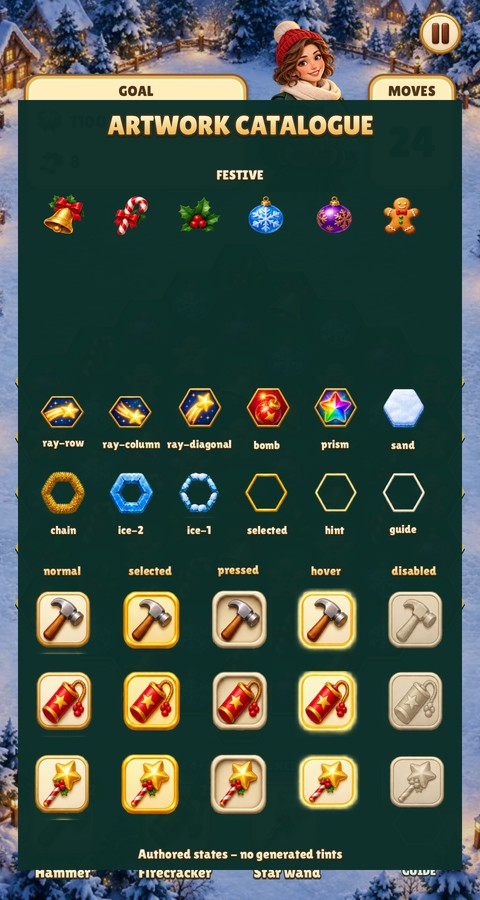
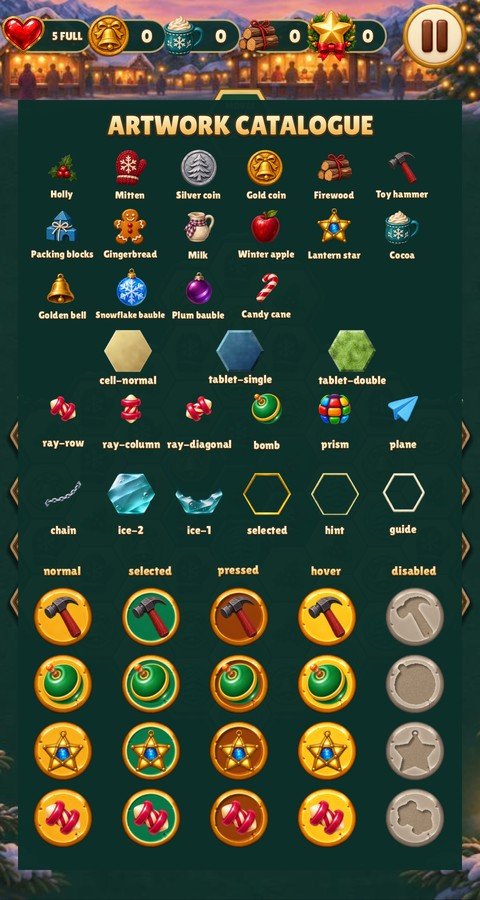
Give Christmas Market four circular boosters

diff --git a/games/relic-rush/tools/prepare_bonus_gems.py b/games/relic-rush/tools/prepare_bonus_gems.py
@@ -150,13 +150,16 @@ def engrave(plate, mask, floor, style):
     return Image.composite(recess, stone, mask)
 
 
-def pack(spec):
-    chips = Image.open(ROOT / spec["source"])
-    base = Image.open(ROOT / spec["button_base"])
+def pack(spec, root=ROOT, icons=None):
+    base = Image.open(root / spec["button_base"])
     cols, rows = len(spec["columns"]), len(spec["rows"])
-    side = spec["cell_size"]
-    assert chips.mode == base.mode == "RGBA" and base.size == (SLOT_SIZE, SLOT_SIZE)
-    assert chips.size == (cols * side, side), "Expected a single strip of standalone gems"
+    if icons is None:
+        side = spec["cell_size"]
+        with Image.open(root / spec["source"]) as chips:
+            assert chips.size == (cols * side, side), "Expected a single strip of standalone gems"
+            icons = [chips.crop((col * side, 0, (col + 1) * side, side)) for col in range(cols)]
+    assert base.mode == "RGBA" and base.size == (SLOT_SIZE, SLOT_SIZE)
+    assert len(icons) == cols and all(icon.mode == "RGBA" for icon in icons)
     base = circular_plate(base, spec["button_outer_radius"])
     base_alpha = base.getchannel("A")
     outside_button = base_alpha.point(lambda a: 255 if a < 128 else 0)
@@ -165,8 +168,7 @@ def pack(spec):
     disabled_style = spec["button_states"]["disabled"]
     floor = cutout_floor(plates["disabled"], disabled_style["cutout"])
     atlas = Image.new("RGBA", (SLOT_SIZE * cols, SLOT_SIZE * rows))
-    for x in range(cols):
-        source = chips.crop((x * side, 0, (x + 1) * side, side))
+    for x, source in enumerate(icons):
         # Preserve the board glyph's existing visible bounds and soft alpha.
         l, t, r, b = source.getchannel("A").point(lambda a: 255 if a >= 128 else 0).getbbox()
         source = source.crop((l - 2, t - 2, r + 2, b + 2))

diff --git a/games/christmas-market/tools/prepare_bonus_buttons.py b/games/christmas-market/tools/prepare_bonus_buttons.py
@@ -1,0 +1,43 @@
+#!/usr/bin/env python3
+"""Generate Christmas Market's circular boosters with the shared painted-button recipe."""
+import argparse
+import json
+from pathlib import Path
+import sys
+
+from PIL import Image
+
+ROOT = Path(__file__).resolve().parents[1]
+RELIC = ROOT.parent / "relic-rush"
+sys.path.insert(0, str(RELIC / "tools"))
+from prepare_bonus_gems import pack
+
+
+def main():
+    parser = argparse.ArgumentParser(description=__doc__)
+    parser.add_argument("--check", action="store_true")
+    args = parser.parse_args()
+    spec = json.loads((ROOT / "art/manifest.json").read_text())["bonus_buttons"]
+    recipe = json.loads((RELIC / "art/board-states/manifest.json").read_text())["bonus_gems"]
+    frames = json.loads((ROOT / "art/match3-atlas.json").read_text())["frames"]
+    icons = []
+    with Image.open(ROOT / "data/market-goods.png") as goods, Image.open(ROOT / "data/match3.png") as specials:
+        for key in spec["columns"]:
+            source = spec["icons"][key]
+            if "good" in source:
+                kind = source["good"]
+                image, x, y, w, h = goods, kind % 4 * 128, kind // 4 * 128, 128, 128
+            else:
+                image = specials
+                x, y, w, h = frames[source["special"]]
+            icons.append(image.crop((x, y, x + w, y + h)))
+    path = ROOT / spec["runtime"]
+    data = pack({**recipe, "columns": spec["columns"]}, root=RELIC, icons=icons)
+    if args.check:
+        assert path.read_bytes() == data, f"Run {spec['generator']}"
+    else:
+        path.write_bytes(data)
+
+
+if __name__ == "__main__":
+    main()

diff --git a/games/christmas-market/tools/check_assets.py b/games/christmas-market/tools/check_assets.py
@@ -68,6 +68,10 @@ def main():
     assert (ROOT/goods['prompt']).is_file() and (ROOT/goods['review']).is_file()
     assert png(ROOT/goods['runtime']) == ((512, 512), 6) and len(set(goods['frames'])) == 16
     subprocess.run([sys.executable, str(ROOT/goods['registration']), '--check'], check=True)
+    buttons = manifest['bonus_buttons']
+    assert len(set(buttons['columns'])) == 4 and set(buttons['columns']) == set(buttons['icons'])
+    assert png(ROOT/buttons['runtime']) == ((512, 768), 6)
+    subprocess.run([sys.executable, str(ROOT.parents[1]/buttons['generator']), '--check'], check=True)
     nav = json.loads((ROOT/'art/navigation/manifest.json').read_text())
     assert set(nav['icons']) == {f'{kind}-{state}' for kind in ('build','play','levels') for state in STATES}
     for kind in ('build', 'play', 'levels'):

diff --git a/AGENTS.md b/AGENTS.md
@@ -94,7 +94,7 @@ All games use the engine's flat-top hex registration in [engine/art/hex-tile/REA
 - **Catalogue every visual addition in the same PR.** For Relic Rush, update `games/relic-rush/docs/asset-catalogue.md`, the runtime inventory and state mapping in `games/relic-rush/art/board-states/manifest.json`, and the runtime contract in `lua/art.lua` when applicable. Other games must maintain an equivalent catalogue in their `docs/`. Record rule meaning, every supported visual/interaction state, source/prompt, runtime path, reproduction command and reviewed in-game capture. New kinds, powerups, blockers, skins, effects and temporary visual fallbacks all count.
 - **Audit changed artwork before handing it over.** For added or changed assets/state mappings, compare rule/state definitions with the catalogue and inspect the affected packs, blocker strengths, special axes and normal/selected/pressed/hover/disabled controls in actual game captures. Run the game's relevant asset checks and tests. An ordinary opening board does not cover changed specials or exhausted tools. A uniform geometry correction with unchanged assets does not require re-auditing the entire art library or adding asset metadata.
 - **Track gaps immediately.** If the audit finds placeholder art, a missing state, an uncatalogued asset or a visual defect that will remain, create or link a GitHub issue before handoff. Record the issue in the catalogue with concrete missing states and acceptance criteria; do not silently ship geometry, tinting, or reused artwork as a finished state. When fixed, close the issue through the PR.
-- **Author state artwork together.** Generate an icon set and all required interaction states in one ImageGen atlas. Preserve authored alpha for free-standing artwork; applying the canonical registration mask to authored full-bleed tile art is allowed. Do not manufacture states with recolouring, tint filters or procedural glyph overlays. Spatial crop/rotation/resize registration may align existing artwork to slots; preserve its design and record the transform. Hex states must match the board slot's size, centre and flat-top orientation. Animation transforms and transient beams/particles may remain procedural when explicitly catalogued. Relic Rush bonus buttons use the [single-base generator](games/relic-rush/docs/asset-catalogue.md#campaign-bonus-pieces-and-sockets) for all five toolbar states.
+- **Author state artwork together.** Generate an icon set and all required interaction states in one ImageGen atlas. Preserve authored alpha for free-standing artwork; applying the canonical registration mask to authored full-bleed tile art is allowed. Do not manufacture states with recolouring, tint filters or procedural glyph overlays. Spatial crop/rotation/resize registration may align existing artwork to slots; preserve its design and record the transform. Hex states must match the board slot's size, centre and flat-top orientation. Animation transforms and transient beams/particles may remain procedural when explicitly catalogued. Relic Rush and Christmas Market campaign bonus buttons use the [single-base generator](games/relic-rush/docs/asset-catalogue.md#campaign-bonus-pieces-and-sockets) for all five toolbar states.
 
 - **Build and test before pushing.** Follow the scope rules above. For a game-local change, use `make CFLAGS="-O2 -g -Werror" <game> build/test/<game>`, relevant named tests and `make lint`. Shared changes require the full build and `make test` (under Xvfb on Linux). CI always runs the full build, tests and lint. `.luacheckrc` declares the engine's globals, so an undefined global is a typo and an unused local is dead code.
 - **Regenerate generated code.** After editing `engine/api.xml`, run `make gen`, and commit the generated files.

diff --git a/games/christmas-market/docs/resource-prototype.md b/games/christmas-market/docs/resource-prototype.md
@@ -123,12 +123,12 @@ passed stay optional. [Ladder design](../../../docs/cradle-of-rome-reference/TWE
 | # | Stall | Placed after | Adds | Price G / F / S |
 | ---: | --- | ---: | --- | ---: |
 | 1 | ★ Welcome arch | 1 | Firewood, 5 Supplies | 50 / 0 / 0 |
-| 2 | Reindeer stable | 2 | Every wish opens with a shooting star | 60 / 0 / 20 |
+| 2 | Reindeer stable | 2 | One Shooting Star booster per wish | 60 / 0 / 20 |
 | 3 | ★ Lumber workshop | 4 | Toy hammers charge the Hammer | 100 / 0 / 100 |
 | 4 | Gingerbread house | 5 | 3 more moves on every wish | 150 / 0 / 80 |
 | 5 | ★ Gingerbread bakery | 7 | Packing blocks replace silver coins, 7 Supplies | 300 / 0 / 200 |
 | 6 | ★ Hot cocoa kiosk | 9 | Cocoa replaces firewood, 4 Food | 400 / 0 / 500 |
-| 7 | Santa's workshop | 11 | Every wish opens with a firework bomb | 200 / 150 / 100 |
+| 7 | Santa's workshop | 11 | One Firework Bomb booster per wish | 200 / 150 / 100 |
 | 8 | ★ Toymaker's workshop | 13 | Milk replaces mittens, 3 Food | 300 / 200 / 300 |
 | 9 | North Pole post office | 14 | Tools charge twice as fast (a use needs 100) | 250 / 250 / 100 |
 | 10 | ★ Gift wrapping pavilion | 16 | Winter apples replace milk, 6 Food | 500 / 400 / 400 |
@@ -143,12 +143,13 @@ passed stay optional. [Ladder design](../../../docs/cradle-of-rome-reference/TWE
 | 19 | Pile of presents | 27 | +20 Supplies on every win | 200 / 500 / 60 |
 | 20 | ★ Christmas tree | 29 | Every wish opens with a rainbow ball | 250 / 600 / 80 |
 
-The bonuses follow Rome's tools on a move-limited board. The shooting star,
-firework bomb, paper plane and rainbow ball are the board's existing
-specials, placed on seeded ordinary cells when a wish opens; Christmas
-Market still makes no specials from matches. The gingerbread house is Rome's
-Hourglass and the post office its Plus. The rink and presents pay like
-Rome's citizens, on every win including replays.
+Four boosters share one toolbar. Hammer and Lantern Lightning bank uses and
+partial charges between wishes. Shooting Star clears the chosen row and
+Firework Bomb hits the chosen cell and its neighbors. Their stalls grant
+one use at the start of each eligible wish. The sleigh's paper plane and
+the tree's rainbow ball still start on seeded ordinary cells. The
+gingerbread house adds moves and the post office doubles charge speed.
+The rink and presents earn income on every win, including replays.
 
 The new pieces reuse the game's earlier painted festive pieces: the golden
 handbell, candy cane and plum bauble from `art/festive-pieces/source.png`

diff --git a/docs/cradle-of-rome-reference/TWENTY_BUILDINGS.md b/docs/cradle-of-rome-reference/TWENTY_BUILDINGS.md
@@ -122,7 +122,7 @@ visible in one row.
 > asked for six new pieces, a cracker charge piece and two new buildings.
 > As built, the ten new stalls are existing Blender renders and the four new
 > pieces reuse the game's earlier painted festive pieces. The Firecracker
-> tool, which had no charge piece, became an opening firework bomb. Two of
+> tool, which had no charge piece, became the Firework Bomb. Two of
 > Rome's Gold treasures became citizen-style income, which Rome pays per level.
 
 Christmas Market's first eight stalls already followed Rome I's first eight
@@ -133,12 +133,12 @@ which places all twenty with one replay for income.
 | # | Build after | Stall | From wish | Adds | Price G / F / S |
 | ---: | ---: | --- | ---: | --- | ---: |
 | 1 | 1 | ★ Welcome arch | 2 | Firewood, 5 Supplies | 50 / 0 / 0 |
-| 2 | 2 | Reindeer stable | 3 | Opening shooting star (Rome's Shield) | 60 / 0 / 20 |
+| 2 | 2 | Reindeer stable | 3 | One Shooting Star booster per wish (Rome's Shield) | 60 / 0 / 20 |
 | 3 | 4 | ★ Lumber workshop | 5 | Hammer | 100 / 0 / 100 |
 | 4 | 5 | Gingerbread house | 6 | +3 moves (Rome's Hourglass) | 150 / 0 / 80 |
 | 5 | 7 | ★ Gingerbread bakery | 8 | Packing blocks, 7 Supplies | 300 / 0 / 200 |
 | 6 | 9 | ★ Hot cocoa kiosk | 10 | Cocoa, 4 Food | 400 / 0 / 500 |
-| 7 | 11 | Santa's workshop | 12 | Opening firework bomb (Rome's Bomb) | 200 / 150 / 100 |
+| 7 | 11 | Santa's workshop | 12 | One Firework Bomb booster per wish (Rome's Bomb) | 200 / 150 / 100 |
 | 8 | 13 | ★ Toymaker's workshop | 14 | Milk, 3 Food | 300 / 200 / 300 |
 | 9 | 14 | North Pole post office | 15 | Tools charge twice as fast (Rome's Plus) | 250 / 250 / 100 |
 | 10 | 16 | ★ Gift wrapping pavilion | 17 | Winter apple, 6 Food | 500 / 400 / 400 |

diff --git a/games/christmas-market/docs/asset-catalogue.md b/games/christmas-market/docs/asset-catalogue.md
@@ -107,6 +107,13 @@ Reproduce draft runtime extraction with `python3 games/christmas-market/tools/pr
 
 The font and its license are inherited unmodified from Relic Rush in `data/fonts/`. Gameplay modules were adapted locally from Relic Rush; its original archaeological paintings are not used in this draft.
 
+## Campaign booster buttons
+
+The four circular buttons use the same [painted base and five state recipes](../../relic-rush/docs/asset-catalogue.md#campaign-bonus-pieces-and-sockets) as Relic Rush. The [manifest](../art/manifest.json) records the toy hammer and lantern star from the market goods atlas, plus the bomb and rocket from the shared board artwork. The generator fits each silhouette into the same circular socket and packs normal, selected, pressed, hover and engraved disabled states beneath the standalone icons.
+
+Run `python3 games/christmas-market/tools/prepare_bonus_buttons.py` to rebuild the atlas.
+[Desktop toolbar](screenshots/booster-toolbar.jpg) · [Phone toolbar](screenshots/booster-toolbar-phone.jpg) · [Five interaction states](screenshots/art-states.jpg)
+
 ## Market goods and tools
 
 The first twelve pieces were authored together in one transparent ImageGen
